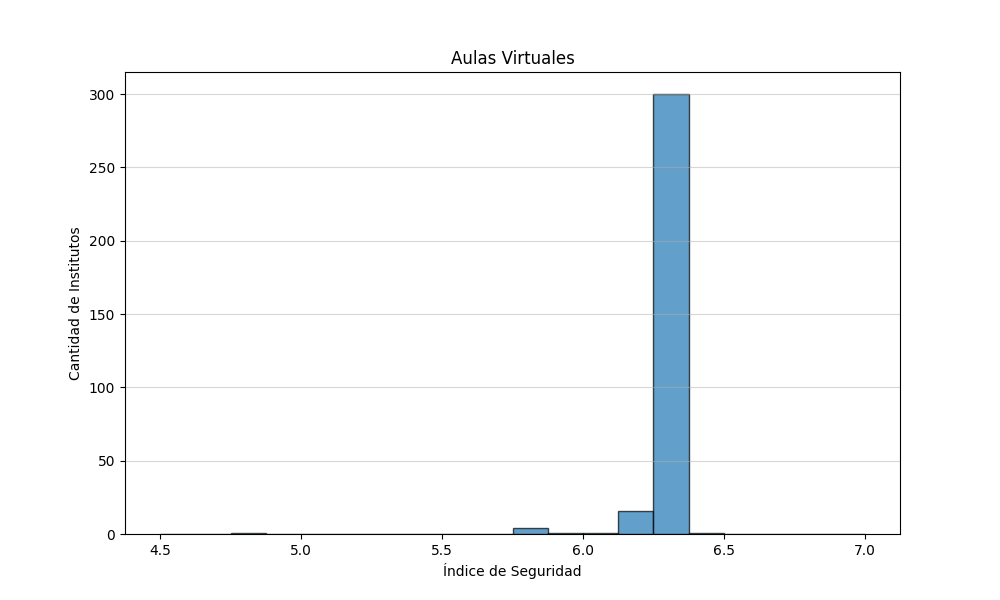
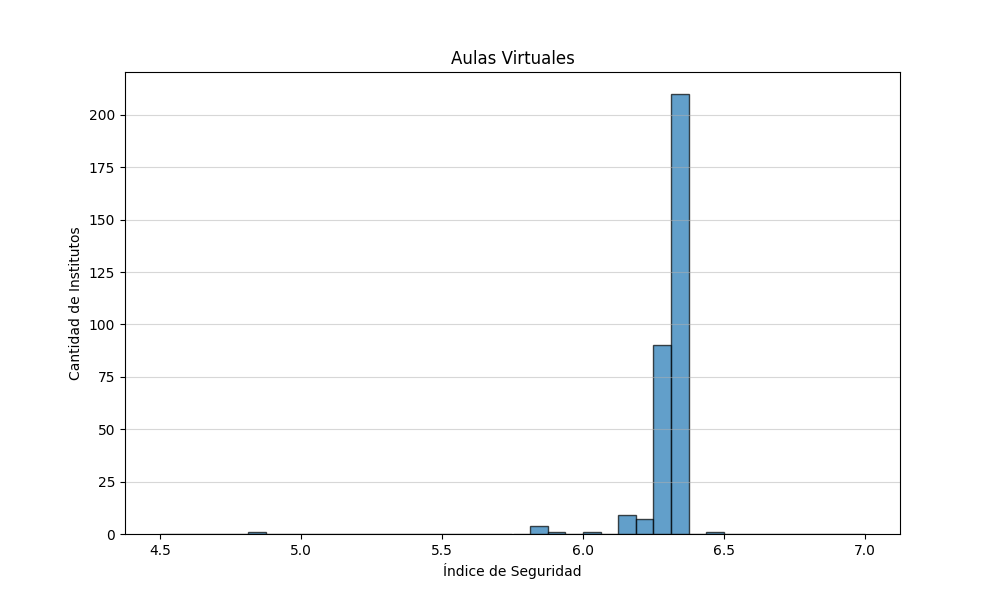
actualizar proyecto

diff --git a/visualizar_resultados.py b/visualizar_resultados.py
@@ -15,9 +15,10 @@ def generar_histograma(archivo_csv, titulo, archivo_salida):
         plt.figure(figsize=(10, 6))
         
         if archivo_csv == "Resultados/resultados_web":
-            plt.hist(notas, bins=20, range=(3, 7), edgecolor='black', alpha=0.7)
+            # las bins son las barras
+            plt.hist(notas, bins=40, range=(3, 7), edgecolor='black', alpha=0.7)
         else:
-            plt.hist(notas, bins=20, range=(4.5, 7), edgecolor='black', alpha=0.7)
+            plt.hist(notas, bins=40, range=(4.5, 7), edgecolor='black', alpha=0.7)
         
         plt.title(titulo)
         plt.xlabel('Índice de Seguridad')

diff --git a/analizar_resultados.py b/analizar_resultados.py
@@ -354,4 +354,15 @@ def obtener_resultados_aula() -> None:
         writer.writerows(resultados)
     print("Resultados finales guardados en resultados_aula.csv")
 
-obtener_resultados_aula()
+"""
+df1 = pd.read_csv("Resultados/resultados_web.csv")
+df2 = pd.read_csv("Resultados/resultados_aula.csv")
+
+nombres_web = df1["instituto"].tolist()
+nombres_aula = df2["instituto"].tolist()
+for nombre_aula in nombres_aula:
+    if nombre_aula in nombres_web:
+        continue # el instituto tiene aula y web, pasamos al siguiente
+    else:
+        print(f"instituto con aula sin web: {nombre_aula}")
+"""
